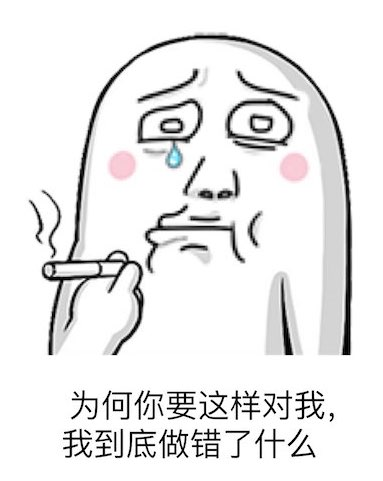
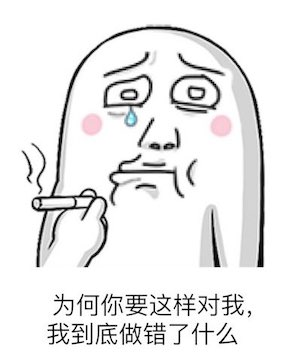
Update images

diff --git a/_posts/2019-05-25-a-stupid-bug.md b/_posts/2019-05-25-a-stupid-bug.md
@@ -38,7 +38,7 @@ keywords: Java, Bug
 
 * 在一条失败 case 之后，马上向 **服务 B** 手动再次推送相同的消息——能取到数据；
 
-![](/images/posts/java/this-unscientific.gif)
+![](/images/posts/java/this-unscientific.jpeg)
 
 直到我终于留意到一个现象：从日志来看，**服务 A** 插库与 **服务 B** 远程调用 **服务 A** 的方法的时间只相差 1 毫秒。会不会是一切发生得太快了，库里还查不到刚刚写入的数据？抑或者查询的时候插库还根本没有生效？
 
